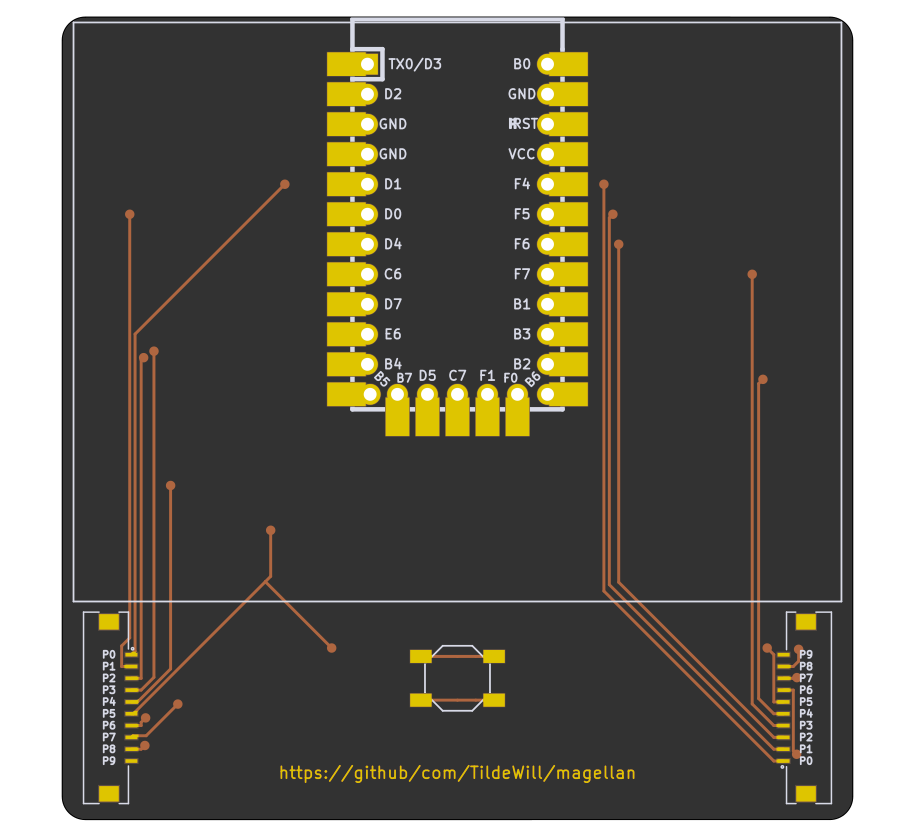
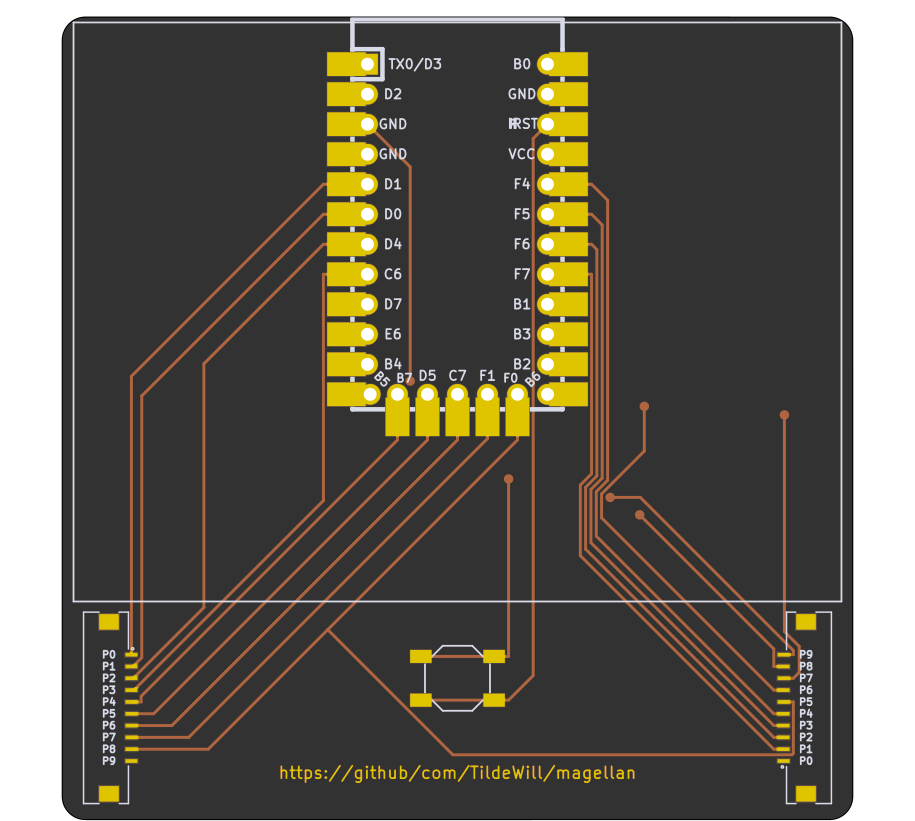
Nicer routing

diff --git a/input/footprints/elite-c.js b/input/footprints/elite-c.js
@@ -3,7 +3,8 @@ module.exports = {
     designator: 'MCU',
     D3: {type: 'net', value: 'D3'},
     D2: {type: 'net', value: 'D2'},
-    GND: {type: 'net', value: 'GND'},
+    GND0: {type: 'net', value: 'GND'},
+    GND1: {type: 'net', value: 'GND1'},
     D1: {type: 'net', value: 'D1'},
     D0: {type: 'net', value: 'D0'},
     D4: {type: 'net', value: 'D4'},
@@ -27,6 +28,7 @@ module.exports = {
     F4: {type: 'net', value: 'F4'},
     VCC: {type: 'net', value: 'VCC'},
     RST: {type: 'net', value: 'RST'},
+    GND2: {type: 'net', value: 'GND2'},
     B0: {type: 'net', value: 'B0'}
   },
   body: p => {
@@ -133,8 +135,8 @@ module.exports = {
         (fp_line (start -12.7 6.35) (end -12.7 8.89) (layer B.SilkS) (width 0.381))
         (pad "1" thru_hole rect (at -13.97 7.62) (size 1.7526 1.7526) (drill 1.0922) (layers *.Cu *.SilkS *.Mask) ${p.D3.str})
         (pad "2" thru_hole circle (at -11.43 7.62) (size 1.7526 1.7526) (drill 1.0922) (layers *.Cu *.SilkS *.Mask) ${p.D2.str})
-        (pad "3" thru_hole circle (at -8.89 7.62) (size 1.7526 1.7526) (drill 1.0922) (layers *.Cu *.SilkS *.Mask) ${p.GND.str})
-        (pad "4" thru_hole circle (at -6.35 7.62) (size 1.7526 1.7526) (drill 1.0922) (layers *.Cu *.SilkS *.Mask) ${p.GND.str})
+        (pad "3" thru_hole circle (at -8.89 7.62) (size 1.7526 1.7526) (drill 1.0922) (layers *.Cu *.SilkS *.Mask) ${p.GND0.str})
+        (pad "4" thru_hole circle (at -6.35 7.62) (size 1.7526 1.7526) (drill 1.0922) (layers *.Cu *.SilkS *.Mask) ${p.GND1.str})
         (pad "5" thru_hole circle (at -3.81 7.62) (size 1.7526 1.7526) (drill 1.0922) (layers *.Cu *.SilkS *.Mask) ${p.D1.str})
         (pad "6" thru_hole circle (at -1.27 7.62) (size 1.7526 1.7526) (drill 1.0922) (layers *.Cu *.SilkS *.Mask) ${p.D0.str})
         (pad "7" thru_hole circle (at 1.27 7.62) (size 1.7526 1.7526) (drill 1.0922) (layers *.Cu *.SilkS *.Mask) ${p.D4.str})
@@ -142,8 +144,8 @@ module.exports = {
         (pad "9" thru_hole circle (at 6.35 7.62) (size 1.7526 1.7526) (drill 1.0922) (layers *.Cu *.SilkS *.Mask) ${p.D7.str})
         (pad "10" thru_hole circle (at 8.89 7.62) (size 1.7526 1.7526) (drill 1.0922) (layers *.Cu *.SilkS *.Mask) ${p.E6.str})
         (pad "11" thru_hole circle (at 11.43 7.62) (size 1.7526 1.7526) (drill 1.0922) (layers *.Cu *.SilkS *.Mask) ${p.B4.str})
-        
         (pad "12" thru_hole circle (at 13.97 7.3914) (size 1.7526 1.7526) (drill 1.0922) (layers *.Cu *.SilkS *.Mask) ${p.B5.str})
+      
         (pad "25" thru_hole circle (at 13.97 5.08) (size 1.7526 1.7526) (drill 1.0922) (layers *.Cu *.SilkS *.Mask) ${p.B7.str})
         (pad "26" thru_hole circle (at 13.97 2.54) (size 1.7526 1.7526) (drill 1.0922) (layers *.Cu *.SilkS *.Mask) ${p.D5.str})
         (pad "27" thru_hole circle (at 13.97 0) (size 1.7526 1.7526) (drill 1.0922) (layers *.Cu *.SilkS *.Mask) ${p.C7.str})
@@ -160,40 +162,42 @@ module.exports = {
         (pad "20" thru_hole circle (at -3.81 -7.62) (size 1.7526 1.7526) (drill 1.0922) (layers *.Cu *.SilkS *.Mask) ${p.F4.str})
         (pad "21" thru_hole circle (at -6.35 -7.62) (size 1.7526 1.7526) (drill 1.0922) (layers *.Cu *.SilkS *.Mask) ${p.VCC.str})
         (pad "22" thru_hole circle (at -8.89 -7.62) (size 1.7526 1.7526) (drill 1.0922) (layers *.Cu *.SilkS *.Mask) ${p.RST.str})
-        (pad "23" thru_hole circle (at -11.43 -7.62) (size 1.7526 1.7526) (drill 1.0922) (layers *.Cu *.SilkS *.Mask) ${p.GND.str})
+        (pad "23" thru_hole circle (at -11.43 -7.62) (size 1.7526 1.7526) (drill 1.0922) (layers *.Cu *.SilkS *.Mask) ${p.GND2.str})
         (pad "24" thru_hole circle (at -13.97 -7.62) (size 1.7526 1.7526) (drill 1.0922) (layers *.Cu *.SilkS *.Mask) ${p.B0.str})
         
         
         
-        (pad "1" smd rect (at -13.97 9.398 ${p.rot}) (size 2 3.25) (layers "F.Cu" "F.Paste" "F.Mask"))
-        (pad "2" smd rect (at -11.43 9.398 ${p.rot}) (size 2 3.25) (layers "F.Cu" "F.Paste" "F.Mask"))
-        (pad "3" smd rect (at -8.89 9.398 ${p.rot}) (size 2 3.25) (layers "F.Cu" "F.Paste" "F.Mask"))
-        (pad "4" smd rect (at -6.35 9.398 ${p.rot}) (size 2 3.25) (layers "F.Cu" "F.Paste" "F.Mask"))
-        (pad "5" smd rect (at -3.81 9.398 ${p.rot}) (size 2 3.25) (layers "F.Cu" "F.Paste" "F.Mask"))
-        (pad "6" smd rect (at -1.27 9.398 ${p.rot}) (size 2 3.25) (layers "F.Cu" "F.Paste" "F.Mask"))
-        (pad "7" smd rect (at 1.27 9.398 ${p.rot}) (size 2 3.25) (layers "F.Cu" "F.Paste" "F.Mask"))
-        (pad "8" smd rect (at 3.81 9.398 ${p.rot}) (size 2 3.25) (layers "F.Cu" "F.Paste" "F.Mask"))
-        (pad "9" smd rect (at 6.35 9.398 ${p.rot}) (size 2 3.25) (layers "F.Cu" "F.Paste" "F.Mask"))
-        (pad "10" smd rect (at 8.89 9.398 ${p.rot}) (size 2 3.25) (layers "F.Cu" "F.Paste" "F.Mask"))
-        (pad "11" smd rect (at 11.43 9.398 ${p.rot}) (size 2 3.25) (layers "F.Cu" "F.Paste" "F.Mask"))
-        (pad "12" smd rect (at 13.97 9.398 ${p.rot}) (size 2 3.25) (layers "F.Cu" "F.Paste" "F.Mask"))
-        (pad "13" smd rect (at 13.97 -9.398 ${p.rot}) (size 2 3.25) (layers "F.Cu" "F.Paste" "F.Mask"))
-        (pad "14" smd rect (at 11.43 -9.398 ${p.rot}) (size 2 3.25) (layers "F.Cu" "F.Paste" "F.Mask"))
-        (pad "15" smd rect (at 8.89 -9.398 ${p.rot}) (size 2 3.25) (layers "F.Cu" "F.Paste" "F.Mask"))
-        (pad "16" smd rect (at 6.35 -9.398 ${p.rot}) (size 2 3.25) (layers "F.Cu" "F.Paste" "F.Mask"))
-        (pad "17" smd rect (at 3.81 -9.398 ${p.rot}) (size 2 3.25) (layers "F.Cu" "F.Paste" "F.Mask"))
-        (pad "18" smd rect (at 1.27 -9.398 ${p.rot}) (size 2 3.25) (layers "F.Cu" "F.Paste" "F.Mask"))
-        (pad "19" smd rect (at -1.27 -9.398 ${p.rot}) (size 2 3.25) (layers "F.Cu" "F.Paste" "F.Mask"))
-        (pad "20" smd rect (at -3.81 -9.398 ${p.rot}) (size 2 3.25) (layers "F.Cu" "F.Paste" "F.Mask"))
-        (pad "21" smd rect (at -6.35 -9.398 ${p.rot}) (size 2 3.25) (layers "F.Cu" "F.Paste" "F.Mask"))
-        (pad "22" smd rect (at -8.89 -9.398 ${p.rot}) (size 2 3.25) (layers "F.Cu" "F.Paste" "F.Mask"))
-        (pad "23" smd rect (at -11.43 -9.398 ${p.rot}) (size 2 3.25) (layers "F.Cu" "F.Paste" "F.Mask"))
-        (pad "24" smd rect (at -13.97 -9.398 ${p.rot}) (size 2 3.25) (layers "F.Cu" "F.Paste" "F.Mask"))
-        (pad "25" smd rect (at 15.875 5.08 ${p.rot + 90}) (size 2 3.25) (layers "F.Cu" "F.Paste" "F.Mask"))
-        (pad "26" smd rect (at 15.875 2.54 ${p.rot + 90}) (size 2 3.25) (layers "F.Cu" "F.Paste" "F.Mask"))
-        (pad "27" smd rect (at 15.875 0 ${p.rot + 90}) (size 2 3.25) (layers "F.Cu" "F.Paste" "F.Mask"))
-        (pad "28" smd rect (at 15.875 -2.54 ${p.rot + 90}) (size 2 3.25) (layers "F.Cu" "F.Paste" "F.Mask"))
-        (pad "29" smd rect (at 15.875 -5.08 ${p.rot + 90}) (size 2 3.25) (layers "F.Cu" "F.Paste" "F.Mask"))
+        (pad "1" smd rect (at -13.97 9.398 ${p.rot}) (size 2 3.25) (layers "F.Cu" "F.Paste" "F.Mask") ${p.D3.str})
+        (pad "2" smd rect (at -11.43 9.398 ${p.rot}) (size 2 3.25) (layers "F.Cu" "F.Paste" "F.Mask") ${p.D2.str})
+        (pad "3" smd rect (at -8.89 9.398 ${p.rot}) (size 2 3.25) (layers "F.Cu" "F.Paste" "F.Mask") ${p.GND0.str})
+        (pad "4" smd rect (at -6.35 9.398 ${p.rot}) (size 2 3.25) (layers "F.Cu" "F.Paste" "F.Mask") ${p.GND1.str})
+        (pad "5" smd rect (at -3.81 9.398 ${p.rot}) (size 2 3.25) (layers "F.Cu" "F.Paste" "F.Mask") ${p.D1.str})
+        (pad "6" smd rect (at -1.27 9.398 ${p.rot}) (size 2 3.25) (layers "F.Cu" "F.Paste" "F.Mask") ${p.D0.str})
+        (pad "7" smd rect (at 1.27 9.398 ${p.rot}) (size 2 3.25) (layers "F.Cu" "F.Paste" "F.Mask") ${p.D4.str})
+        (pad "8" smd rect (at 3.81 9.398 ${p.rot}) (size 2 3.25) (layers "F.Cu" "F.Paste" "F.Mask") ${p.C6.str})
+        (pad "9" smd rect (at 6.35 9.398 ${p.rot}) (size 2 3.25) (layers "F.Cu" "F.Paste" "F.Mask") ${p.D7.str})
+        (pad "10" smd rect (at 8.89 9.398 ${p.rot}) (size 2 3.25) (layers "F.Cu" "F.Paste" "F.Mask") ${p.E6.str})
+        (pad "11" smd rect (at 11.43 9.398 ${p.rot}) (size 2 3.25) (layers "F.Cu" "F.Paste" "F.Mask") ${p.B4.str})
+        (pad "12" smd rect (at 13.97 9.398 ${p.rot}) (size 2 3.25) (layers "F.Cu" "F.Paste" "F.Mask") ${p.B5.str})
+        
+        (pad "25" smd rect (at 15.875 5.08 ${p.rot + 90}) (size 2 3.25) (layers "F.Cu" "F.Paste" "F.Mask") ${p.B7.str})
+        (pad "26" smd rect (at 15.875 2.54 ${p.rot + 90}) (size 2 3.25) (layers "F.Cu" "F.Paste" "F.Mask") ${p.D5.str})
+        (pad "27" smd rect (at 15.875 0 ${p.rot + 90}) (size 2 3.25) (layers "F.Cu" "F.Paste" "F.Mask") ${p.C7.str})
+        (pad "28" smd rect (at 15.875 -2.54 ${p.rot + 90}) (size 2 3.25) (layers "F.Cu" "F.Paste" "F.Mask") ${p.F1.str})
+        (pad "29" smd rect (at 15.875 -5.08 ${p.rot + 90}) (size 2 3.25) (layers "F.Cu" "F.Paste" "F.Mask") ${p.F0.str})
+        
+        (pad "13" smd rect (at 13.97 -9.398 ${p.rot}) (size 2 3.25) (layers "F.Cu" "F.Paste" "F.Mask") ${p.B6.str})
+        (pad "14" smd rect (at 11.43 -9.398 ${p.rot}) (size 2 3.25) (layers "F.Cu" "F.Paste" "F.Mask") ${p.B2.str})
+        (pad "15" smd rect (at 8.89 -9.398 ${p.rot}) (size 2 3.25) (layers "F.Cu" "F.Paste" "F.Mask") ${p.B3.str})
+        (pad "16" smd rect (at 6.35 -9.398 ${p.rot}) (size 2 3.25) (layers "F.Cu" "F.Paste" "F.Mask") ${p.B1.str})
+        (pad "17" smd rect (at 3.81 -9.398 ${p.rot}) (size 2 3.25) (layers "F.Cu" "F.Paste" "F.Mask") ${p.F7.str})
+        (pad "18" smd rect (at 1.27 -9.398 ${p.rot}) (size 2 3.25) (layers "F.Cu" "F.Paste" "F.Mask") ${p.F6.str})
+        (pad "19" smd rect (at -1.27 -9.398 ${p.rot}) (size 2 3.25) (layers "F.Cu" "F.Paste" "F.Mask") ${p.F5.str})
+        (pad "20" smd rect (at -3.81 -9.398 ${p.rot}) (size 2 3.25) (layers "F.Cu" "F.Paste" "F.Mask") ${p.F4.str})
+        (pad "21" smd rect (at -6.35 -9.398 ${p.rot}) (size 2 3.25) (layers "F.Cu" "F.Paste" "F.Mask") ${p.VCC.str})
+        (pad "22" smd rect (at -8.89 -9.398 ${p.rot}) (size 2 3.25) (layers "F.Cu" "F.Paste" "F.Mask") ${p.RST.str})
+        (pad "23" smd rect (at -11.43 -9.398 ${p.rot}) (size 2 3.25) (layers "F.Cu" "F.Paste" "F.Mask") ${p.GND2.str})
+        (pad "24" smd rect (at -13.97 -9.398 ${p.rot}) (size 2 3.25) (layers "F.Cu" "F.Paste" "F.Mask") ${p.B0.str})
         
       )
     `;
